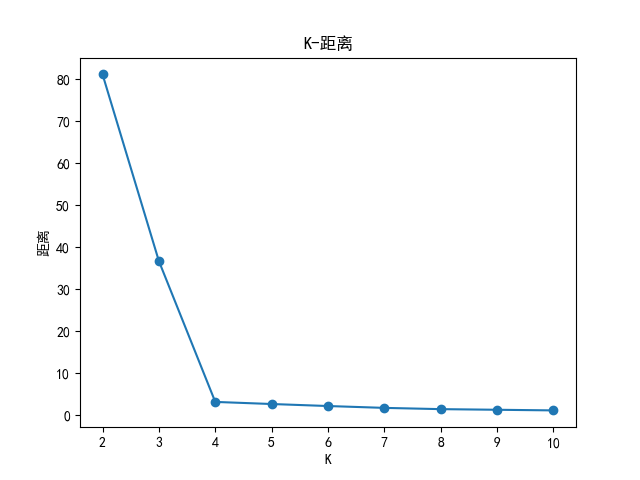
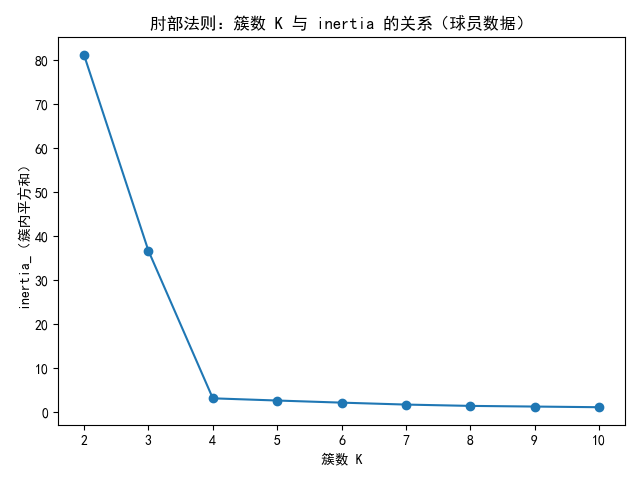
第十课批改·第2轮：两处待修正全部落地，✅ 通过本课作业关闭

diff --git a/自主学习/第十课：肘部法则/test.py b/自主学习/第十课：肘部法则/test.py
@@ -36,9 +36,10 @@ for k, iner, drop in zip(Ks, inertia, drops):
 	print(f'K={k:<3d} inertia_={iner:<6} 下降幅度={d}')
 
 plt.plot(Ks, inertia, 'o-')
-plt.xlabel('K')
-plt.ylabel('距离')
-plt.title('K-距离')
+plt.xlabel('簇数 K')
+plt.ylabel('inertia_（簇内平方和）')
+plt.title('肘部法则：簇数 K 与 inertia 的关系（球员数据）')
+plt.tight_layout()
 plt.savefig('k-inertia.png')
 plt.show()
 

diff --git a/自主学习/第十课：肘部法则/第十课：肘部法则.md b/自主学习/第十课：肘部法则/第十课：肘部法则.md
@@ -206,28 +206,30 @@ drops = []
 prev = None
 
 for k in Ks:
-    km = KMeans(n_clusters=k, random_state=42, n_init=10)
-    km.fit(X_scaled)
-    inertia.append(round(km.inertia_, 2))
-    if prev is None:
-       drops.append(None)
-    else:
-       drops.append(round(prev - km.inertia_, 2))
-    prev = km.inertia_
+	km = KMeans(n_clusters=k, random_state=42, n_init=10)
+	km.fit(X_scaled)
+	inertia.append(round(km.inertia_, 2))
+	if prev is None:
+		drops.append(None)
+	else:
+		drops.append(round(prev - km.inertia_, 2))
+	prev = km.inertia_
 
 for k, iner, drop in zip(Ks, inertia, drops):
-    d = 'none' if drop is None else drop
-    print(f'K={k:<3d} inertia_={iner:<6} 下降幅度={d}')
+	d = 'none' if drop is None else drop
+	print(f'K={k:<3d} inertia_={iner:<6} 下降幅度={d}')
 
 plt.plot(Ks, inertia, 'o-')
-plt.xlabel('K')
-plt.ylabel('距离')
-plt.title('K-距离')
+plt.xlabel('簇数 K')
+plt.ylabel('inertia_（簇内平方和）')
+plt.title('肘部法则：簇数 K 与 inertia 的关系（球员数据）')
+plt.tight_layout()
 plt.savefig('k-inertia.png')
 plt.show()
 
 print(f'读结果：K=3-4 下降幅度 {drops[2]}，K=4→5 下降幅度 {drops[3]}，4 之后每档都不足 1——')
 print('下降从 K=4 开始就直接变得平缓，肘部在 K=4')
+
 ```
 
 形状: (80, 2)
@@ -247,6 +249,9 @@ K=7   inertia_=1.75   下降幅度=0.44
 K=8   inertia_=1.45   下降幅度=0.3
 K=9   inertia_=1.3    下降幅度=0.16
 K=10  inertia_=1.15   下降幅度=0.14
+
+读结果：K=3-4 下降幅度 33.51，K=4→5 下降幅度 0.5，4 之后每档都不足 1——
+下降从 K=4 开始就直接变得平缓，肘部在 K=4
 
 #### 老师批改·第1轮（2026-10-27，批改对象：test.py 15:11 版 + 文档贴码）
 
@@ -288,6 +293,40 @@ K=10  inertia_=1.15   下降幅度=0.14
 小建议（不阻塞，顺手就改）：`plt.tight_layout()` 加一行防止标签被裁；x 标签写 `'簇数 K'` 比裸的 `'K'` 更清楚。
 
 两条说明（不算错）：实跑里那串 `UserWarning: KMeans ... memory leak ...` 和 `FigureCanvasAgg is non-interactive` 都是 stderr 警告（前者是 sklearn 的 Windows 老毛病，后者因为老师这边无窗口跑图），不是程序输出，不影响验收。
+#### 老师批改·第2轮（2026-10-27，批改对象：test.py 15:19 版 + 文档贴码）
+
+**✅ 通过，本课作业关闭。** 上一轮 2 处待修正全部落地：
+
+1. **图标签 ✅ 已改**：x「簇数 K」、y「inertia_（簇内平方和）」、标题「肘部法则：簇数 K 与 inertia 的关系（球员数据）」，`tight_layout()` 也顺手加上了。新图（`k-inertia.png` 15:19 版）核对过：中文显示正常、肘部在 K=4 清晰、无文字裁剪。
+2. **完整输出 ✅ 已贴**：结论两行（`读结果：…`、`下降从 K=4 开始…`）都在了。实跑 19 行输出与你贴的内容逐行一致（贴码里表格与结论之间多一个空行，是排版噪音、程序没打印它，不算错）。
+
+**验收点终审**：① shape (80, 2)、缺失值 0、两列 float64 ✅；② 形状、均值、标准差 ✅；③ 9 个 `inertia_` + 8 个下降幅度全在 ±0.05 内 ✅；④ x/y 显式传、标签名副其实、`savefig` 出图 ✅；⑤ 结论 K=4，理由引自己的 33.51 / 0.5 ✅。
+
+**实跑输出**（`BaiQing3.10AI` 复现 `test.py`，stdout）：
+
+```
+形状: (80, 2)
+类型: 场均得分    float64
+场均篮板    float64
+dtype: object
+缺失值数量: 0
+(80, 2)
+[-0. -0.]
+[1. 1.]
+K=2   inertia_=81.13  下降幅度=none
+K=3   inertia_=36.68  下降幅度=44.45
+K=4   inertia_=3.17   下降幅度=33.51
+K=5   inertia_=2.67   下降幅度=0.5
+K=6   inertia_=2.19   下降幅度=0.48
+K=7   inertia_=1.75   下降幅度=0.44
+K=8   inertia_=1.45   下降幅度=0.3
+K=9   inertia_=1.3    下降幅度=0.16
+K=10  inertia_=1.15   下降幅度=0.14
+读结果：K=3-4 下降幅度 33.51，K=4→5 下降幅度 0.5，4 之后每档都不足 1——
+下降从 K=4 开始就直接变得平缓，肘部在 K=4
+```
+
+单元③进度：第九、第十课已关闭。下一课 **第十一课：轮廓系数与 DBI**（聚类选 K 的第二把尺子，专治"肘部看不清"的数据）——要开讲说一声。
 ### 我的疑问
 
 （记录没想通的点，会话里问我）
